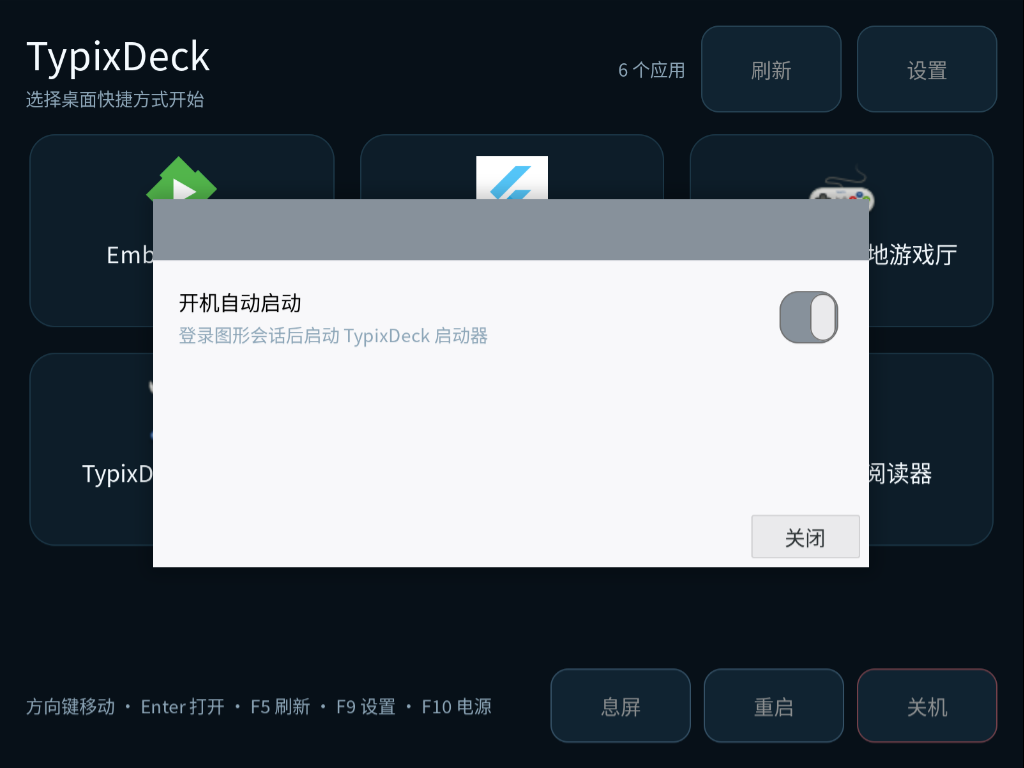
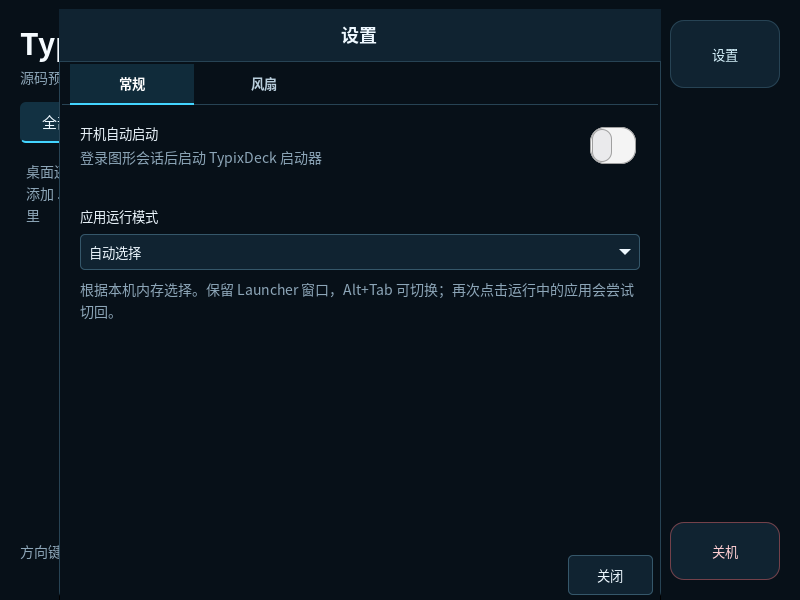
Unify settings window colors under Raspberry Pi themes

diff --git a/src/typix_launcher/typix-launcher.css b/src/typix_launcher/typix-launcher.css
@@ -175,6 +175,62 @@ combobox button:hover {
   color: #ffffff;
 }
 
+/* PiXtrix styles the titlebar, dialog footer and notebook frame separately.
+ * Own these surfaces as well as the content so the system's light chrome does
+ * not surround the dark settings panel, including when the window is inactive. */
+.launcher-settings,
+.launcher-settings > box,
+.launcher-settings .dialog-vbox,
+.launcher-settings .dialog-action-box,
+.launcher-settings .dialog-action-area {
+  background: #071018;
+  color: #eef8ff;
+  border: none;
+  box-shadow: none;
+}
+
+.launcher-settings decoration {
+  background: #071018;
+  margin: 0;
+  padding: 0;
+  border: 1px solid #274354;
+  border-radius: 12px;
+  box-shadow: none;
+}
+
+.launcher-settings headerbar,
+.launcher-settings headerbar:backdrop {
+  min-height: 30px;
+  padding: 6px 12px;
+  background: #102331;
+  color: #eef8ff;
+  border: none;
+  border-bottom: 1px solid #274354;
+  box-shadow: none;
+  text-shadow: none;
+}
+
+.launcher-settings headerbar .title {
+  color: #eef8ff;
+  font-size: 18px;
+  font-weight: 600;
+  text-shadow: none;
+}
+
+.launcher-settings notebook,
+.launcher-settings notebook > stack,
+.launcher-settings scrolledwindow {
+  padding: 0;
+  border: none;
+  box-shadow: none;
+}
+
+.launcher-settings notebook > header {
+  border: none;
+  border-bottom: 1px solid #274354;
+  box-shadow: none;
+}
+
 .launcher-settings notebook,
 .launcher-settings notebook header,
 .launcher-settings notebook stack,
@@ -189,6 +245,7 @@ combobox button:hover {
   min-width: 100px;
   color: #b9cedc;
   border-bottom: 2px solid transparent;
+  box-shadow: none;
 }
 
 .launcher-settings notebook tab:checked {

diff --git a/tools/check-settings-ui.py b/tools/check-settings-ui.py
@@ -1,0 +1,95 @@
+#!/usr/bin/env python3
+"""Check the complete settings dialog under the selected GTK theme, using fixtures."""
+from pathlib import Path
+import argparse
+import sys
+import time
+from unittest.mock import patch
+
+sys.path.insert(0, str(Path(__file__).resolve().parents[1] / "src"))
+import preview
+from typix_launcher import app as module
+from typix_launcher.app import Gtk, Gdk
+from typix_launcher.fan import FanController
+
+
+def settle(predicate=lambda: True):
+    deadline = time.monotonic() + 3
+    while time.monotonic() < deadline:
+        while Gtk.events_pending():
+            Gtk.main_iteration_do(False)
+        if predicate():
+            time.sleep(.05)
+            while Gtk.events_pending():
+                Gtk.main_iteration_do(False)
+            return
+        time.sleep(.01)
+    raise AssertionError("Settings layout timed out")
+
+
+def children(widget):
+    yield widget
+    if isinstance(widget, Gtk.Container):
+        for child in widget.get_children():
+            yield from children(child)
+
+
+def main():
+    parser = argparse.ArgumentParser(description=__doc__)
+    parser.add_argument("--screenshots", type=Path)
+    args = parser.parse_args()
+    preview.require_display()
+    app = preview.Preview()
+
+    def forbidden(*_args, **_kwargs):
+        raise AssertionError("Settings preview accessed hardware or the user session")
+
+    def check(dialog):
+        dialog.move(60, 10)
+        dialog.show_all()
+        settle(lambda: app.fan_panel.initialized)
+        header = dialog.get_titlebar()
+        assert header.get_title() == "设置"
+        notebook = next(w for w in children(dialog.get_content_area()) if isinstance(w, Gtk.Notebook))
+        for state in (Gtk.StateFlags.NORMAL, Gtk.StateFlags.BACKDROP):
+            color = header.get_style_context().get_background_color(state)
+            assert color.alpha > .99 and color.red < .15 and color.green < .25, "Light system header leaked"
+            foreground = header.get_style_context().get_color(state)
+            assert min(foreground.red, foreground.green, foreground.blue) > .8
+        for page, name in ((0, "settings-general"), (1, "settings-fan")):
+            notebook.set_current_page(page)
+            settle()
+            width, height = dialog.get_size()
+            assert width <= 800 and height <= 600, f"Settings exceed display: {width}x{height}"
+            assert dialog.get_widget_for_response(Gtk.ResponseType.CLOSE).get_mapped()
+            if args.screenshots:
+                args.screenshots.mkdir(parents=True, exist_ok=True)
+                root = Gdk.get_default_root_window()
+                shot = Gdk.pixbuf_get_from_window(root, 0, 0, 800, 600)
+                assert shot is not None
+                shot.savev(str(args.screenshots / (name + ".png")), "png", [], [])
+        return Gtk.ResponseType.CLOSE
+
+    with patch.object(module.desktop, "load_apps", return_value=[]), \
+            patch.object(module, "StatusStrip", preview.PreviewStatus), \
+            patch.object(FanController, "state", forbidden), \
+            patch.object(FanController, "apply", forbidden), \
+            patch.object(module.subprocess, "run", forbidden), \
+            patch.object(module.subprocess, "Popen", forbidden):
+        try:
+            app.register(None)
+            app.do_activate()
+            with patch.object(Gtk.Dialog, "run", check):
+                app.show_settings()
+            assert app.settings_dialog is None and app.fan_panel is None
+            print("PASS: complete settings dialog, dark active/inactive header, Close action, 800x600 bounds; no hardware writes")
+        finally:
+            if app.status_strip is not None:
+                app.status_strip.close()
+            if app.window is not None:
+                app.window.destroy()
+            app.quit()
+
+
+if __name__ == "__main__":
+    main()

diff --git a/src/typix_launcher/app.py b/src/typix_launcher/app.py
@@ -399,7 +399,7 @@ class Launcher(Gtk.Application):
         dialog = Gtk.Dialog(title="启动器设置", transient_for=self.window, modal=True)
         dialog.get_style_context().add_class('launcher-settings')
         self.settings_dialog = dialog
-        dialog.set_default_size(600, 560)
+        dialog.set_default_size(600, 540)
         dialog.add_button("关闭", Gtk.ResponseType.CLOSE)
         content_area = dialog.get_content_area()
         notebook = Gtk.Notebook()
@@ -410,8 +410,12 @@ class Launcher(Gtk.Application):
         body = Gtk.Box(orientation=Gtk.Orientation.VERTICAL, spacing=2)
         scroll.add(body)
         notebook.append_page(scroll, Gtk.Label(label='常规'))
-        if dialog.get_header_bar() is None:
-            dialog.set_titlebar(Gtk.HeaderBar())
+        header = dialog.get_header_bar()
+        if header is None:
+            header = Gtk.HeaderBar()
+            dialog.set_titlebar(header)
+        header.set_title("设置")
+        header.set_show_close_button(False)  # Keep the existing keyboard-accessible Close action.
         row = Gtk.Box(orientation=Gtk.Orientation.HORIZONTAL, spacing=12)
         row.set_border_width(18)
         text_box = Gtk.Box(orientation=Gtk.Orientation.VERTICAL, spacing=3)

diff --git a/src/typix_launcher/fan_panel.py b/src/typix_launcher/fan_panel.py
@@ -27,7 +27,7 @@ class FanPanel(Gtk.Box):
         self.curve_selection = 0
         self.curve_drag = None
         self.curve_scroll = None
-        self.set_border_width(18)
+        self.set_border_width(12)
         self.get_style_context().add_class('fan-panel')
         self.connect("destroy", lambda _widget: self.close())
 

diff --git a/src/typix_launcher/__init__.py b/src/typix_launcher/__init__.py
@@ -1,3 +1,3 @@
 """TypixDeck native GTK3 launcher and application supervisor."""
 
-__version__ = "0.3.4"
+__version__ = "0.3.5"

diff --git a/README.md b/README.md
@@ -1,5 +1,9 @@
 # TypixDeck Launcher
 
+0.3.5 统一设置页的标题栏、窗口边框、页签和底部操作区配色，修复 Raspberry Pi OS
+PiXtrix 主题下的灰色空标题栏与浅色边框，并调整窗口高度适配约 800×600 的逻辑显示。
+保留 0.3.4 的手指拖动温控曲线；升级不改变已保存的风扇模式与输出。
+
 面向官方 Raspberry Pi OS ARM64 的原生全屏启动器，主验收设备为 CM4。只显示用户桌面上的 `.desktop` 快捷方式；保持深色 GTK3、约 800×600 逻辑布局、三列应用网格和键盘导航。支持单应用省内存与后台切换两种运行方式，可在设置中选择。
 
 - 平台：官方 Raspberry Pi OS ARM64 Bookworm / Trixie，兼容性与可用功能按运行时探测。
@@ -21,9 +25,9 @@
 
 桌面快捷方式首页与键盘焦点。
 
-![开机自动启动设置](docs/screenshots/settings.png)
+![0.3.5 设置页统一深色外观](docs/screenshots/settings.png)
 
-开机自动启动设置。
+0.3.5 设置页，使用 PiXtrix 主题和隔离演示数据验证完整窗口外观。
 
 <!-- app-screenshots:end -->
 

diff --git a/docs/FAN-CONTROL.md b/docs/FAN-CONTROL.md
@@ -1,5 +1,9 @@
 # Launcher 风扇控制
 
+0.3.5 补齐设置窗口标题栏、边框和底部操作区的深色样式，压缩面板留白以适配
+PiXtrix 字体尺寸。`tools/check-settings-ui.py` 在 PiXtrix 和 Adwaita 下检查完整
+设置窗口，使用演示数据，不读取或修改真机温控设置。
+
 0.3.4 在设置（F9）→ **风扇** 页提供可触摸拖动的温控曲线、手动调速和实时转速。适用的是 TypixDeck 0720 **CN5 上的 EMC2301**；不是 ESP32 固件功能。CN3 的 CM5 专用引脚不能作为 CM4 的调速接口。
 
 ## 使用
